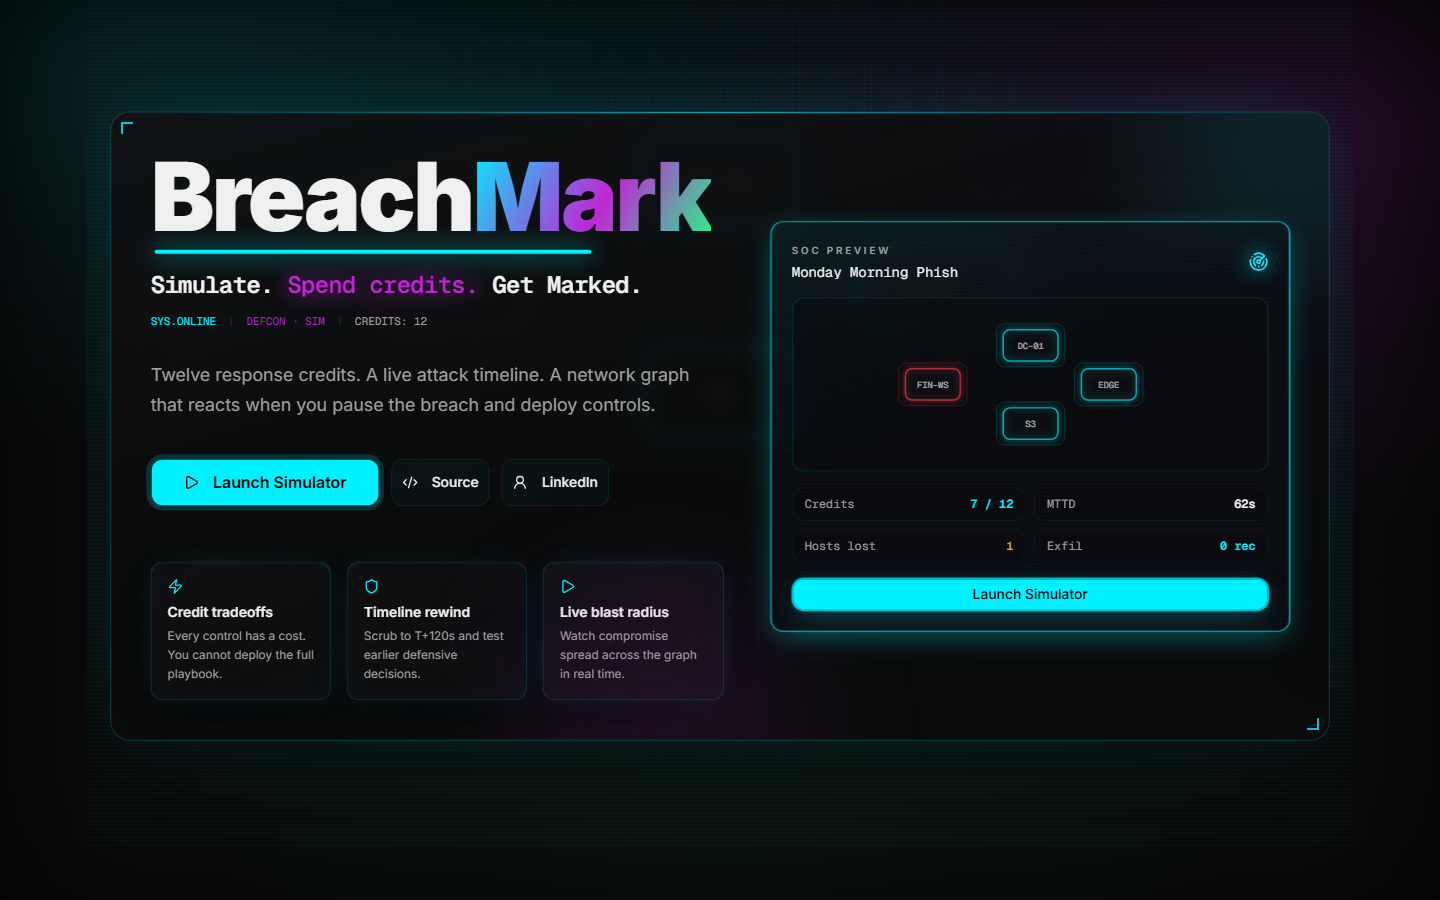
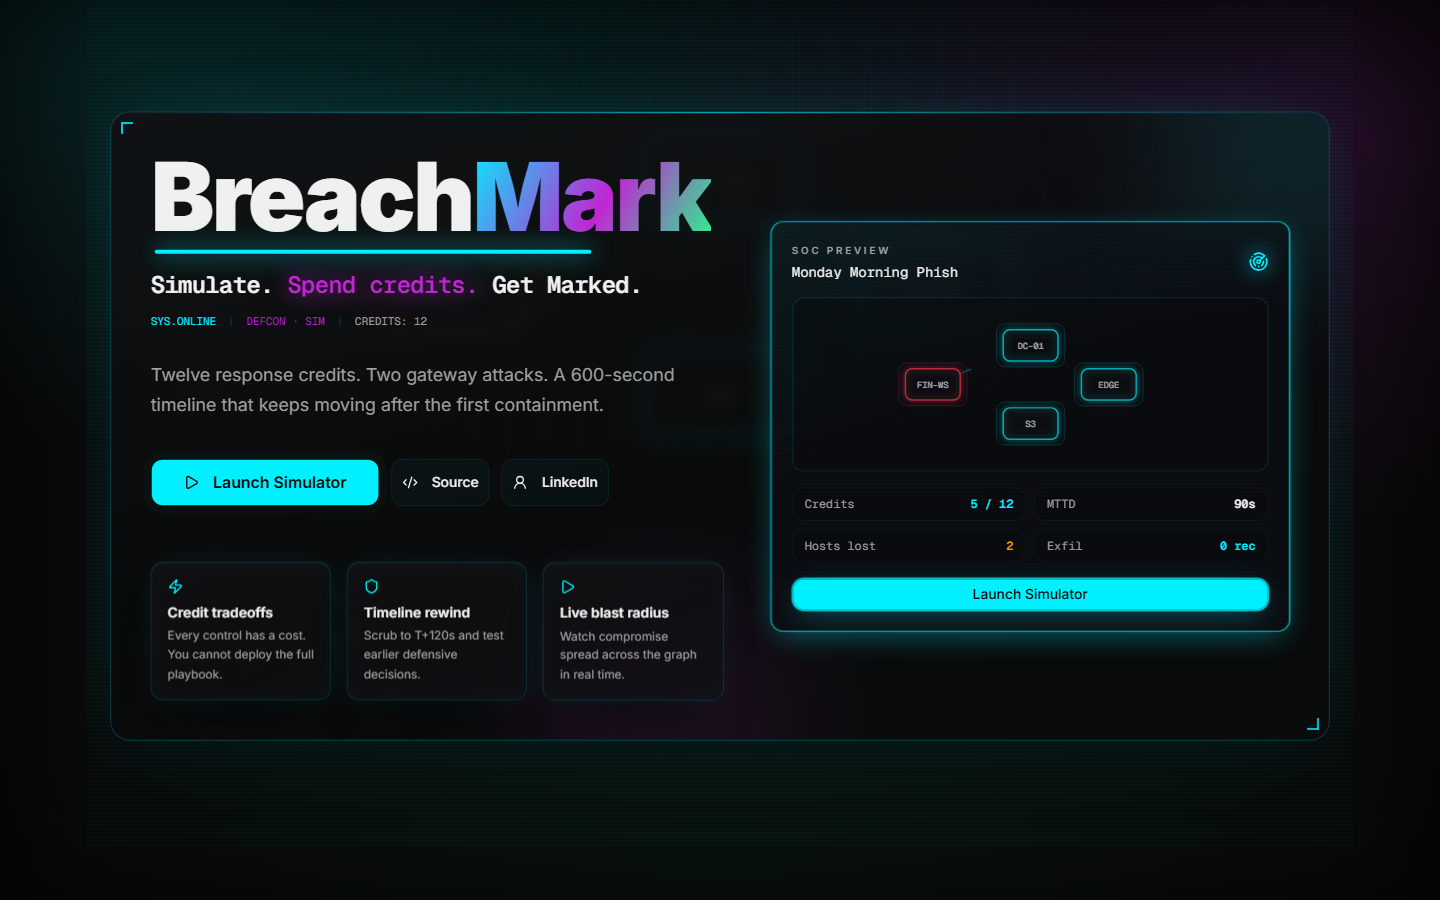
fix: retune incident scenario

diff --git a/src/lib/simulation/controls.ts b/src/lib/simulation/controls.ts
@@ -13,7 +13,7 @@ export const CONTROLS: ControlDefinition[] = [
     id: "isolate-host",
     name: "Isolate host",
     description: "Cut network access for a compromised endpoint.",
-    cost: 4,
+    cost: 5,
     requiresTarget: true,
     targetRoles: ["workstation", "dc", "gateway"],
   },
@@ -21,7 +21,7 @@ export const CONTROLS: ControlDefinition[] = [
     id: "reset-user-creds",
     name: "Force password reset",
     description: "Invalidate cached credentials on a workstation.",
-    cost: 3,
+    cost: 4,
     requiresTarget: true,
     targetRoles: ["workstation"],
   },
@@ -29,7 +29,7 @@ export const CONTROLS: ControlDefinition[] = [
     id: "block-ioc",
     name: "Block IOC",
     description: "Firewall block on known C2 and exfil indicators.",
-    cost: 3,
+    cost: 4,
     requiresTarget: false,
   },
   {
@@ -43,14 +43,7 @@ export const CONTROLS: ControlDefinition[] = [
     id: "revoke-sessions",
     name: "Revoke sessions",
     description: "Kill active tokens before lateral movement.",
-    cost: 4,
-    requiresTarget: false,
-  },
-  {
-    id: "awareness-push",
-    name: "User awareness push",
-    description: "Warn users about the phishing wave (minor delay).",
-    cost: 2,
+    cost: 5,
     requiresTarget: false,
   },
 ];

diff --git a/src/components/game/LandingHero.tsx b/src/components/game/LandingHero.tsx
@@ -87,8 +87,8 @@ export function LandingHero() {
             variants={item}
             className="max-w-xl text-lg leading-relaxed text-muted-foreground"
           >
-            Twelve response credits. A live attack timeline. A network graph that
-            reacts when you pause the breach and deploy controls.
+            Twelve response credits. Two gateway attacks. A 600-second timeline
+            that keeps moving after the first containment.
           </motion.p>
 
           <motion.div variants={item} className="mt-10 flex flex-wrap gap-3">
@@ -170,9 +170,9 @@ export function LandingHero() {
                 <HeroGraphPreview />
               </div>
               <div className="grid grid-cols-2 gap-2 font-mono text-xs">
-                <PreviewStat label="Credits" value="7 / 12" accent />
-                <PreviewStat label="MTTD" value="62s" />
-                <PreviewStat label="Hosts lost" value="1" warn />
+                <PreviewStat label="Credits" value="5 / 12" accent />
+                <PreviewStat label="MTTD" value="90s" />
+                <PreviewStat label="Hosts lost" value="2" warn />
                 <PreviewStat label="Exfil" value="0 rec" accent />
               </div>
               <Button

diff --git a/src/components/game/BriefingPanel.tsx b/src/components/game/BriefingPanel.tsx
@@ -7,11 +7,11 @@ import { GlassPanel } from "@/components/ui/glass-panel";
 import { useSimulationStore } from "@/store/simulation-store";
 
 const phases = [
-  "Malicious attachment on finance workstation",
-  "C2 beacon and credential theft",
-  "VPN token replay and workstation spread",
-  "Lateral movement toward DC-01",
-  "DCSync and object-storage exfiltration",
+  "T+30 edge-gateway phish lands on finance",
+  "T+45 VPN token replay opens a second path",
+  "Credential theft and lateral movement",
+  "Domain controller escalation",
+  "Object-storage exfiltration near the end",
 ];
 
 export function BriefingPanel() {
@@ -53,8 +53,8 @@ export function BriefingPanel() {
             ))}
           </ol>
           <p className="rounded-xl border border-primary/25 bg-primary/5 px-3 py-2 text-xs text-primary">
-            Tip: Isolate FIN-WS-04 before T+135s or reset credentials early to
-            keep DC-01 clean.
+            Tip: One gateway containment is not enough. The second path still
+            fires unless you spend credits on the VPN/session side too.
           </p>
           <Button
             className="bm-glow-cyan h-12 w-full rounded-xl text-base font-semibold"

diff --git a/src/lib/simulation/engine.test.ts b/src/lib/simulation/engine.test.ts
@@ -13,9 +13,9 @@ describe("replayToTime", () => {
     expect(result.metrics.hostsCompromised).toBeGreaterThan(1);
   });
 
-  it("contains early phish with awareness push", () => {
+  it("contains the first gateway attack with edge isolation", () => {
     const controls: AppliedControl[] = [
-      { controlId: "awareness-push", appliedAt: 10 },
+      { controlId: "isolate-host", appliedAt: 10, targetNode: "gw-edge" },
     ];
     const result = replayToTime(scenario, controls, 600);
     const first = result.resolvedEvents[0];
@@ -60,11 +60,11 @@ describe("replayToTime", () => {
 
   it("tracks credits spent", () => {
     const controls: AppliedControl[] = [
-      { controlId: "awareness-push", appliedAt: 5 },
+      { controlId: "enhanced-logging", appliedAt: 5 },
       { controlId: "block-ioc", appliedAt: 50 },
     ];
     const result = replayToTime(scenario, controls, 600);
-    expect(result.creditsSpent).toBe(5);
-    expect(result.creditsRemaining).toBe(7);
+    expect(result.creditsSpent).toBe(7);
+    expect(result.creditsRemaining).toBe(5);
   });
 });

diff --git a/src/lib/control-icons.ts b/src/lib/control-icons.ts
@@ -1,7 +1,6 @@
 import {
   KeyRound,
   LogOut,
-  Megaphone,
   ScanEye,
   ShieldBan,
   Unplug,
@@ -14,5 +13,4 @@ export const CONTROL_ICONS: Record<string, LucideIcon> = {
   "block-ioc": ShieldBan,
   "enhanced-logging": ScanEye,
   "revoke-sessions": LogOut,
-  "awareness-push": Megaphone,
 };

diff --git a/README.md b/README.md
@@ -4,7 +4,7 @@
 
 ### Cyber SOC command center simulator
 
-**Spend limited response credits. Scrub the attack timeline. Watch the blast radius change on a live network graph.**
+**Spend limited response credits. Contain two attack paths. Watch the blast radius change on a live network graph.**
 
 <br />
 
@@ -32,11 +32,11 @@ Next.js 16 · TypeScript · Tailwind CSS v4 · shadcn/ui · React Flow · Framer
 | | |
 |---|---|
 | **Problem** | Security training is often static—checklists and slides don't show *tradeoffs under pressure*. |
-| **Solution** | A premium cyber SOC command center where every defensive control costs credits and the timeline rewinds deterministically. |
-| **Audience** | Recruiters, hiring managers, and blue-team learners who want a **60-second** interactive proof of skill. |
+| **Solution** | A premium cyber SOC command center where every defensive control costs credits and one containment does not end the incident. |
+| **Audience** | Recruiters, hiring managers, and blue-team learners who want a **two-minute** interactive proof of skill. |
 | **Status** | v1.3 — Series-A visual reset, neon glassmorphism UI, one polished scenario (*Monday Morning Phish*), full play loop, shareable scorecard. |
 
-> **Hook:** You get **12 response credits**. The attack keeps moving. Pause the timeline, spend credits, watch the blast radius shrink or spread.
+> **Hook:** You get **12 response credits**. Two gateways light up at T+30 and T+45. Pause the timeline, spend credits, watch the blast radius shrink or spread.
 
 ---
 
@@ -56,8 +56,8 @@ This repo is meant to be **pinned on GitHub** and linked from a resume or Linked
 
 | Feature | Recruiter signal | Implementation |
 |---------|------------------|----------------|
-| **Credit budget** | Prioritization under pressure | Isolate (3cr), reset creds (2cr), block IOC (2cr), logging (2cr), revoke sessions (3cr), awareness (1cr) |
-| **Blast-radius graph** | Systems thinking | React Flow topology with compromise levels, MiniMap, active breach glow, and click-to-target controls |
+| **Credit budget** | Prioritization under pressure | Isolate (5cr), reset creds (4cr), block IOC (4cr), logging (3cr), revoke sessions (5cr) |
+| **Blast-radius graph** | Systems thinking | React Flow topology with compromise levels, dual gateway ingress, active breach glow, and click-to-target controls |
 | **Attack timeline** | Incident sequencing | Segmented rail, keyboard shortcuts (`Space` / `→` / `F`), deterministic replay from T+0 |
 | **Scorecard** | Shareable outcome | Animated letter grade, confetti on **A**, LinkedIn-ready copy |
 | **Safe demo data** | Responsible security tooling | Fictional scenario data only; no scanning, no real telemetry |
@@ -68,10 +68,10 @@ This repo is meant to be **pinned on GitHub** and linked from a resume or Linked
 
 1. Open the **[live demo](https://breachmark.vercel.app)** (no install).  
 2. **Launch Simulator** → **Start incident response** inside the cyber SOC command center.  
-3. Deploy **Isolate host** on `FIN-WS-04` before **T+180s** (or **Force password reset** on finance).  
+3. Contain the edge gateway before **T+30**, then decide whether to spend on the VPN/session path before **T+45**.  
 4. Scrub the glowing timeline → **Finish** → **Copy LinkedIn Summary**.
 
-**Win condition to try:** DC stays clean and exfil stays at **0** when finance is isolated early.
+**Win condition to try:** DC stays clean and exfil stays at **0** only if you handle both ingress paths and save credits for later stages.
 
 ---
 
